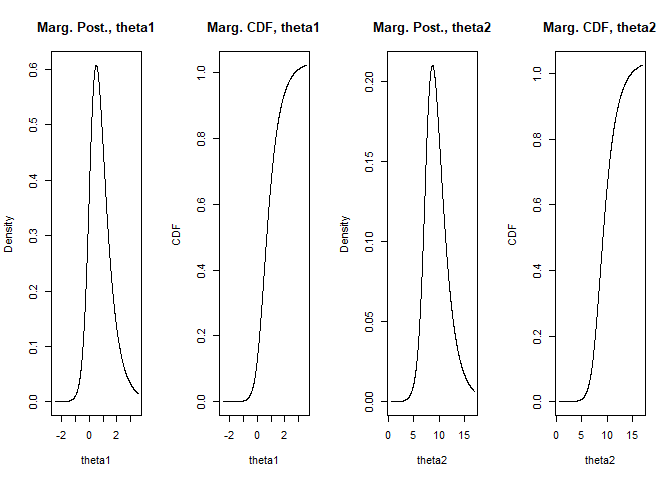
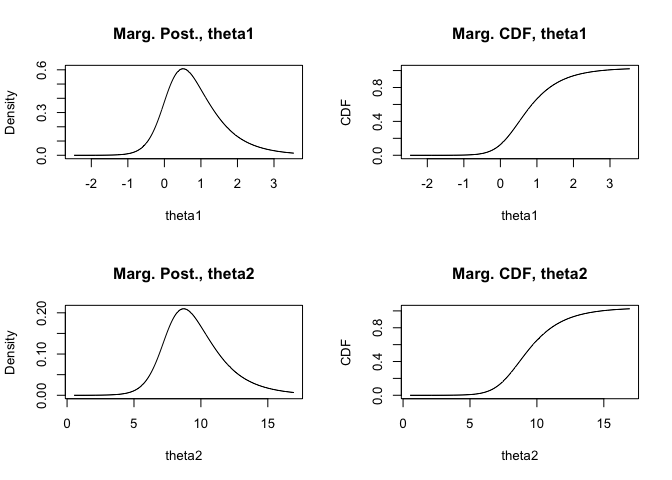
update readme

diff --git a/README.md b/README.md
@@ -30,7 +30,7 @@ infection times from the R package `survival`:
 ``` r
 library(abcoxp)
 library(dplyr)
-#> Warning: package 'dplyr' was built under R version 4.0.5
+library(aghq)
 ## basic example code
 data <- survival::kidney
 head(data)
@@ -61,6 +61,9 @@ its (approximate) posterior with:
 samps <- abcoxp_sampling(fitted_model = mod, # output from abcoxp_fit
                          nsamps = 3000 # number of independent posterior samples to draw
                          )
+#> Registered S3 method overwritten by 'LaplacesDemon':
+#>   method        from
+#>   print.laplace aghq
 par(mfrow = c(1,2))
 hist(samps$fixed_samps[,1], main = "Samples for effect of age", xlab = "Effect")
 hist(samps$fixed_samps[,2], main = "Samples for effect of sex", xlab = "Effect")
@@ -90,7 +93,7 @@ The posterior for the two hyperparameters (theta1 for SD of frailty and
 theta2 for SD of RW2) can be plotted by:
 
 ``` r
-par(mfrow = c(1,4))
+par(mfrow = c(2,2))
 plot(mod$model)
 ```
 
@@ -118,3 +121,73 @@ lines(lower ~ pos_samp_path$x, lty = 'dashed')
 ```
 
 <img src="man/figures/README-unnamed-chunk-4-1.png" width="100%" />
+
+To replicate the analysis in the main paper , we can do the following:
+
+``` r
+data <- survival::kidney
+data$GN <- ifelse(data$disease == "GN", 1, 0)
+data$AN <- ifelse(data$disease == "AN", 1, 0)
+data$PKD <- ifelse(data$disease == "PKD", 1, 0)
+data$sex <- (data$sex - 1)
+
+mod <- abcoxp_fit(data = data, 
+                  times = "time", # name of your time variable in the data
+                  cens = "status", # name of your censoring indicator (0/1) in the data
+                  fixed = c("sex", "age", "GN", "AN", "PKD"), # names of fixed effect (have to be numeric variables)
+                  fixed_control = list(betaprec = 0.001), # the prior distribution for the fixed effects
+                  frailty = "id", # name of the group variable for frailty, has to be integer valued
+                  frailty_control = list(u = 2, alpha = 0.5), # PC prior parameters for frailty SD
+                  Inference_control = list(aghq_k = 15) # number of grid points to use for the AGHQ
+                  )
+```
+
+The posterior of the frailty log precision *θ*<sub>*ξ*</sub> can be
+obtained as:
+
+``` r
+par(mfrow = c(1,2))
+plot(mod$model)
+```
+
+<img src="man/figures/README-unnamed-chunk-6-1.png" width="100%" />
+
+This can be converted to the posterior of the SD parameter
+*σ*<sub>*ξ*</sub> as:
+
+``` r
+prec_marg <- mod$model$marginals[[1]]
+logpostsigma <- compute_pdf_and_cdf(prec_marg,list(totheta = function(x) -2*log(x),fromtheta = function(x) exp(-x/2)),interpolation = 'spline')
+```
+
+The posterior distribution of each parameter can be obtained as:
+
+``` r
+samps <- abcoxp_sampling(fitted_model = mod, # output from abcoxp_fit
+                         nsamps = 10000 # number of independent posterior samples to draw
+                         )
+
+### Plot density:
+sex_proposed_dens <- density(samps$fixed_samps[,1], bw = 0.1)
+sex_proposed_dens <- tibble(x = sex_proposed_dens$x, y = sex_proposed_dens$y)
+age_proposed_dens <- density(samps$fixed_samps[,2], bw = 0.005)
+age_proposed_dens <- tibble(x = age_proposed_dens$x, y = age_proposed_dens$y)
+GN_proposed_dens <- density(samps$fixed_samps[,3], bw = 0.12)
+GN_proposed_dens <- tibble(x = GN_proposed_dens$x, y = GN_proposed_dens$y)
+AN_proposed_dens <- density(samps$fixed_samps[,4], bw = 0.12)
+AN_proposed_dens <- tibble(x = AN_proposed_dens$x, y = AN_proposed_dens$y)
+PKD_proposed_dens <- density(samps$fixed_samps[,5], bw = 0.2)
+PKD_proposed_dens <- tibble(x = PKD_proposed_dens$x, y = PKD_proposed_dens$y)
+```
+
+``` r
+par(mfrow = c(2,3))
+with(logpostsigma,plot(transparam,pdf_transparam,type='l',xlim = c(0,3), ylab = "density", xlab = "SD"))
+plot(sex_proposed_dens, type = 'l', xlab = "sex", ylab = "density")
+plot(age_proposed_dens, type = 'l', xlab = "age", ylab = "density")
+plot(GN_proposed_dens, type = 'l', xlab = "GN", ylab = "density")
+plot(AN_proposed_dens, type = 'l', xlab = "AN", ylab = "density")
+plot(PKD_proposed_dens, type = 'l', xlab = "PKD", ylab = "density")
+```
+
+<img src="man/figures/README-unnamed-chunk-9-1.png" width="100%" />
